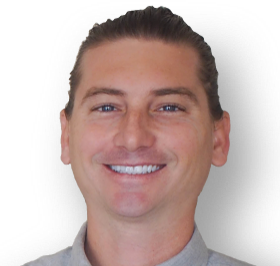
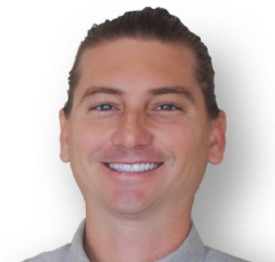
Commented out Exit popup

diff --git a/wp-content/themes/cheapflightsfromtampa/style.css b/wp-content/themes/cheapflightsfromtampa/style.css
@@ -10564,8 +10564,8 @@ div.closeexitpop {
 
   /* line 1526, sass/style.scss */
   .wrapper, .premium-wrapper, .premium-wrapper-deals, .recent-deal-wrapper, .deal-wrapper, .widget {
-    padding-left: 0;
-    padding-right: 0;
+    padding-left: 15px;
+    padding-right: 15px;
   }
 
   /* line 1531, sass/style.scss */
@@ -10892,9 +10892,16 @@ div.closeexitpop {
   .navbar-default .navbar-nav > li > a:focus {
     color: #324B5A;
   }
+
+  /* About */
+  /* line 1811, sass/style.scss */
+  .team-member {
+    width: auto;
+    height: auto;
+  }
 }
 @media (min-width: 1000px) {
-  /* line 1812, sass/style.scss */
+  /* line 1818, sass/style.scss */
   .navbar-default .navbar-nav > li > a::after {
     position: absolute;
     top: 100%;
@@ -10914,13 +10921,13 @@ div.closeexitpop {
     margin: 0;
   }
 
-  /* line 1828, sass/style.scss */
+  /* line 1834, sass/style.scss */
   .navbar-default .navbar-nav > .active > a, .navbar-default .navbar-nav > .active > a:hover {
     background-color: transparent;
     color: #efefef;
   }
 
-  /* line 1833, sass/style.scss */
+  /* line 1839, sass/style.scss */
   .navbar-default .navbar-nav > li > a:hover::after {
     opacity: 1;
     -webkit-transform: translateY(0px);
@@ -10928,19 +10935,19 @@ div.closeexitpop {
     transform: translateY(0px);
   }
 
-  /* line 1840, sass/style.scss */
+  /* line 1846, sass/style.scss */
   .navbar-default .navbar-nav > li > a:hover {
     color: #efefef;
   }
 
-  /* line 1844, sass/style.scss */
+  /* line 1850, sass/style.scss */
   .navbar-default .navbar-nav > .active > a, .navbar-default .navbar-nav > .active > a:focus {
     color: #ffffff;
     background-color: transparent;
     border-bottom: 2px solid #efefef;
   }
 
-  /* line 1850, sass/style.scss */
+  /* line 1856, sass/style.scss */
   .navbar-default .navbar-nav > li:nth-child(5) {
     background-color: #4CAF50;
     color: #ffffff;
@@ -10949,17 +10956,17 @@ div.closeexitpop {
     border-radius: 5px;
   }
 
-  /* line 1858, sass/style.scss */
+  /* line 1864, sass/style.scss */
   .navbar-default .navbar-nav > li:nth-child(5) a:hover {
     background-color: #6ec071;
   }
 
-  /* line 1862, sass/style.scss */
+  /* line 1868, sass/style.scss */
   .navbar-default .navbar-nav > li:nth-child(5) a:hover::after {
     opacity: 0;
   }
 
-  /* line 1866, sass/style.scss */
+  /* line 1872, sass/style.scss */
   .navbar-default .navbar-nav > li:nth-child(5) > a, .navbar-default .navbar-nav > li:nth-child(5) > a:focus {
     border-bottom: none;
     background-color: #6ec071;

diff --git a/wp-content/themes/cheapflightsfromtampa/sass/style.scss b/wp-content/themes/cheapflightsfromtampa/sass/style.scss
@@ -1524,8 +1524,8 @@ div.closeexitpop{ /* Large x close button  */
 	}
 	
 	.wrapper {
-		padding-left: 0;
-		padding-right: 0;
+		padding-left: 15px;
+		padding-right: 15px;
 	}
 	
 	.about-title {
@@ -1805,6 +1805,12 @@ div.closeexitpop{ /* Large x close button  */
 	
 	.navbar-default .navbar-nav > li > a:focus {
 		color: $secondary-dark-blue;
+	}
+	
+	/* About */
+	.team-member {
+		width: auto;
+		height: auto;
 	}
 }
 

diff --git a/wp-content/themes/cheapflightsfromtampa/single.php b/wp-content/themes/cheapflightsfromtampa/single.php
@@ -334,16 +334,16 @@ Template page for displaying single deal posts, both Premium and Free.
 			
 		</div><!--/.col-md-12-->
 		
-		<div id="ddexitpop1" class="ddexitpop">
+		<!--<div id="ddexitpop1" class="ddexitpop">
 			
 			<div class="closeexitpop"></div>
 	
-	    	<h1><?php the_field('popup_title', 'option'); ?></h1>
-			<div class="popup-content"><?php the_field('popup_content', 'option')?></div>
+	    	<h1><?php //the_field('popup_title', 'option'); ?></h1>
+			<div class="popup-content"><?php //the_field('popup_content', 'option')?></div>
 	    	
-	    	<div class="popup three-dollars-reg"><?php the_field('sign_up', 'option'); ?></div>
+	    	<div class="popup three-dollars-reg"><?php //the_field('sign_up', 'option'); ?></div>
 			
-		</div>
+		</div>-->
 		
 	</div><!--/.row-->
 	

diff --git a/wp-content/themes/cheapflightsfromtampa/page.php b/wp-content/themes/cheapflightsfromtampa/page.php
@@ -906,16 +906,16 @@
 
 	        </div><!--./free-wrapper-->
 			
-			<div id="ddexitpop1" class="ddexitpop">
+			<!--<div id="ddexitpop1" class="ddexitpop">
 				
 				<div class="closeexitpop">X</div>
 		
-		    	<h1><?php the_field('popup_title', 'option'); ?></h1>
-				<div class="popup-content"><?php the_field('popup_content', 'option')?></div>
+		    	<h1><?php //the_field('popup_title', 'option'); ?></h1>
+				<div class="popup-content"><?php //the_field('popup_content', 'option')?></div>
 		    	
-		    	<div class="popup three-dollars-reg"><?php the_field('three_dollar_register'); ?></div>
+		    	<div class="popup three-dollars-reg"><?php //the_field('three_dollar_register'); ?></div>
 				
-			</div>
+			</div>-->
 
 	    </div><!--/.row-->
 	  </div><!--/.container-fluid-->

diff --git a/wp-content/themes/cheapflightsfromtampa/header.php b/wp-content/themes/cheapflightsfromtampa/header.php
@@ -159,16 +159,6 @@
   </head>
 
   <body <?php body_class(); ?>>
-	  
-	<!--  <div class="coming-soon-wrapper" style="background-color: #4CAF50;
-    color: white;
-    text-align: center;
-    padding: 10px 0;
-    font-size: 14px;">
-	  	
-			Use coupon code UPGRADE to save 30% off a Premium subscription! <a href="https://cheapflightsfromtampa.com/premium/" style="font-weight: bold">Sign Up Here!</a>
-			
-	  </div>--><!--/.coming-soon-wrapper-->
 	
 	  <?php if( get_field('text', 'options') ): ?>
 	  
